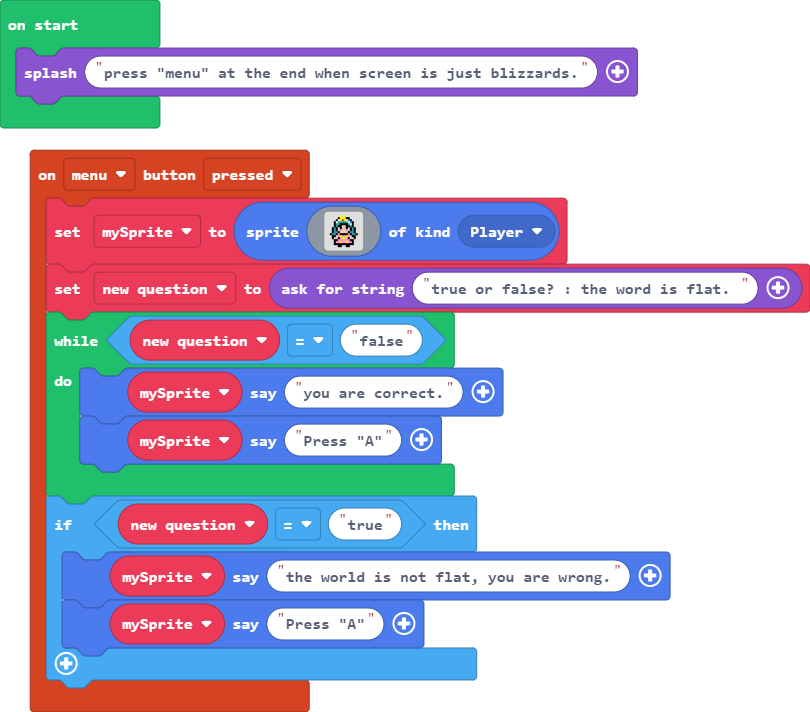
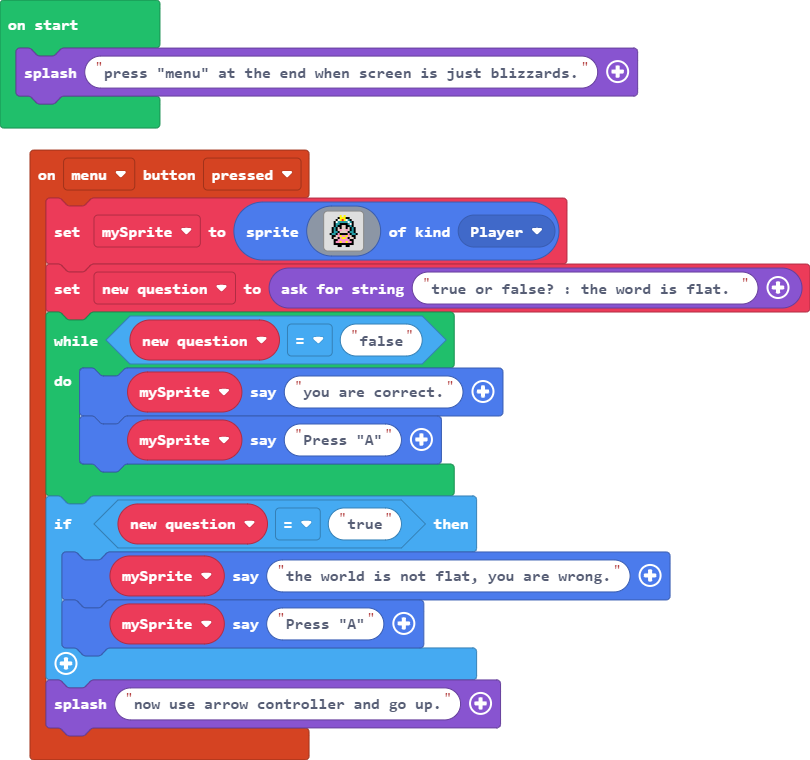
Update main.blocks, main.ts

diff --git a/main.ts b/main.ts
@@ -26,6 +26,7 @@ controller.menu.onEvent(ControllerButtonEvent.Pressed, function () {
         mySprite.sayText("the world is not flat, you are wrong.")
         mySprite.sayText("Press \"A\"")
     }
+    game.splash("now use arrow controller and go up.")
 })
 let new_question = ""
 let mySprite: Sprite = null
